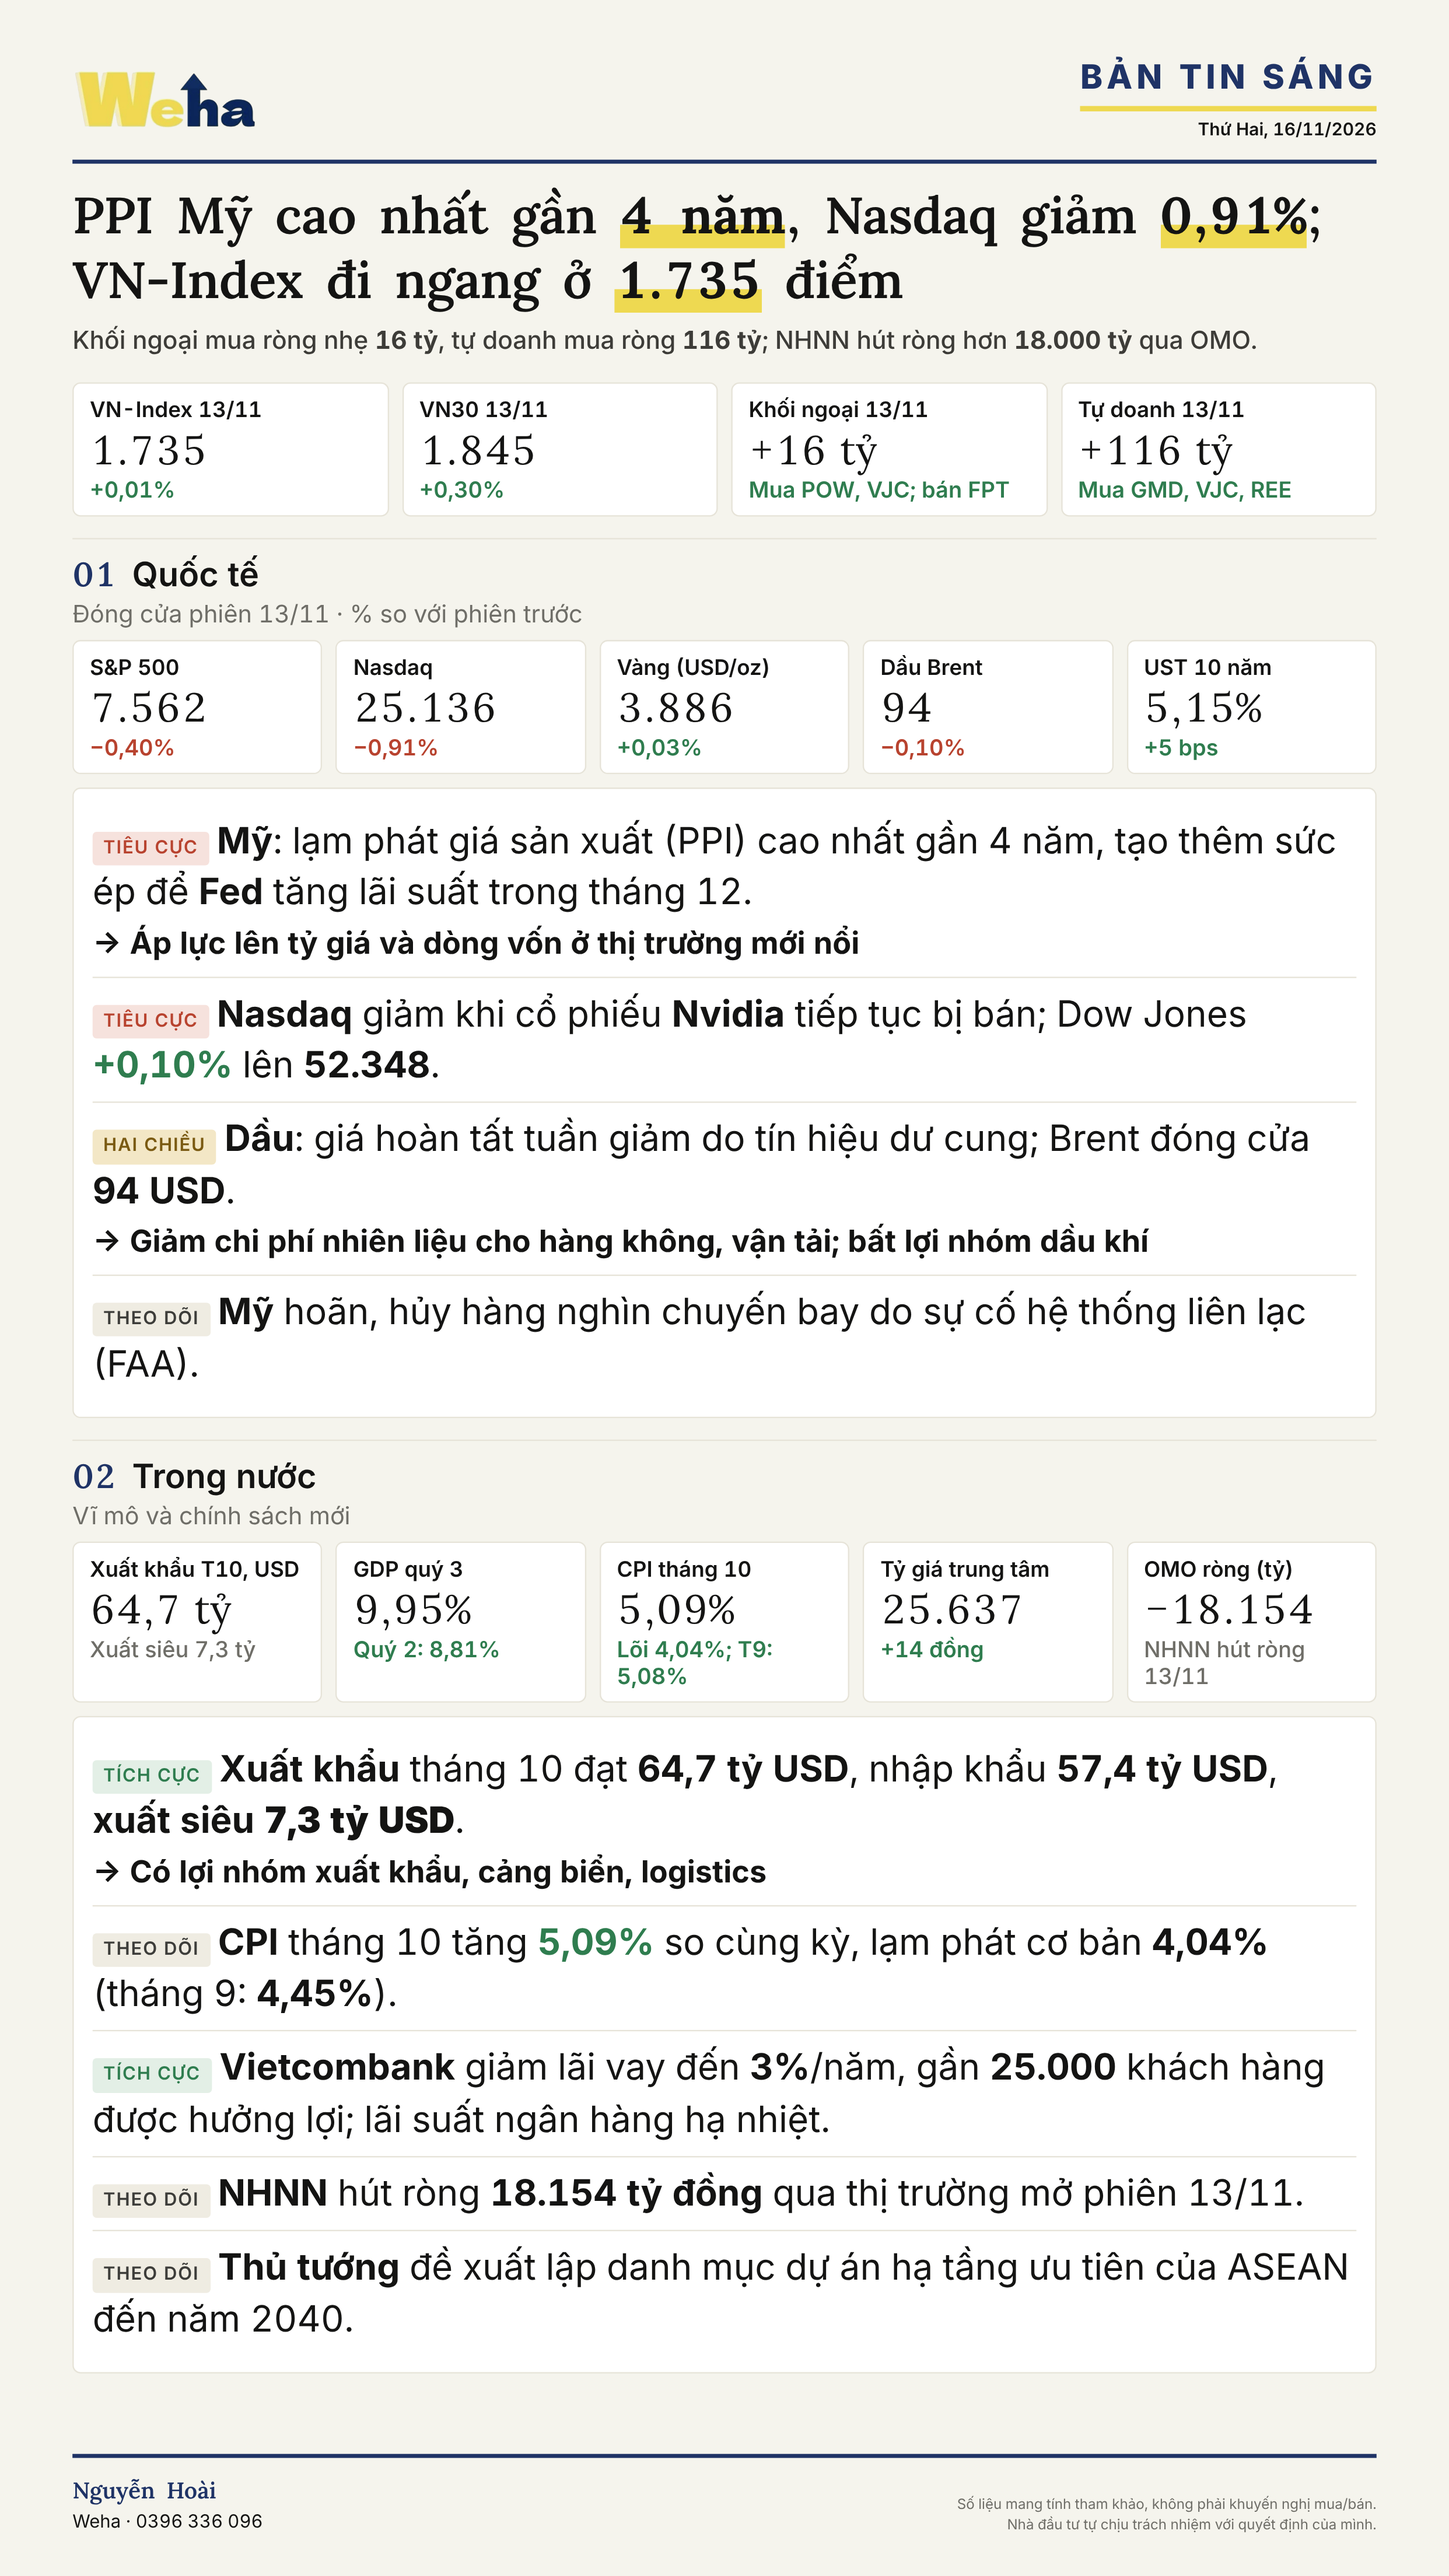
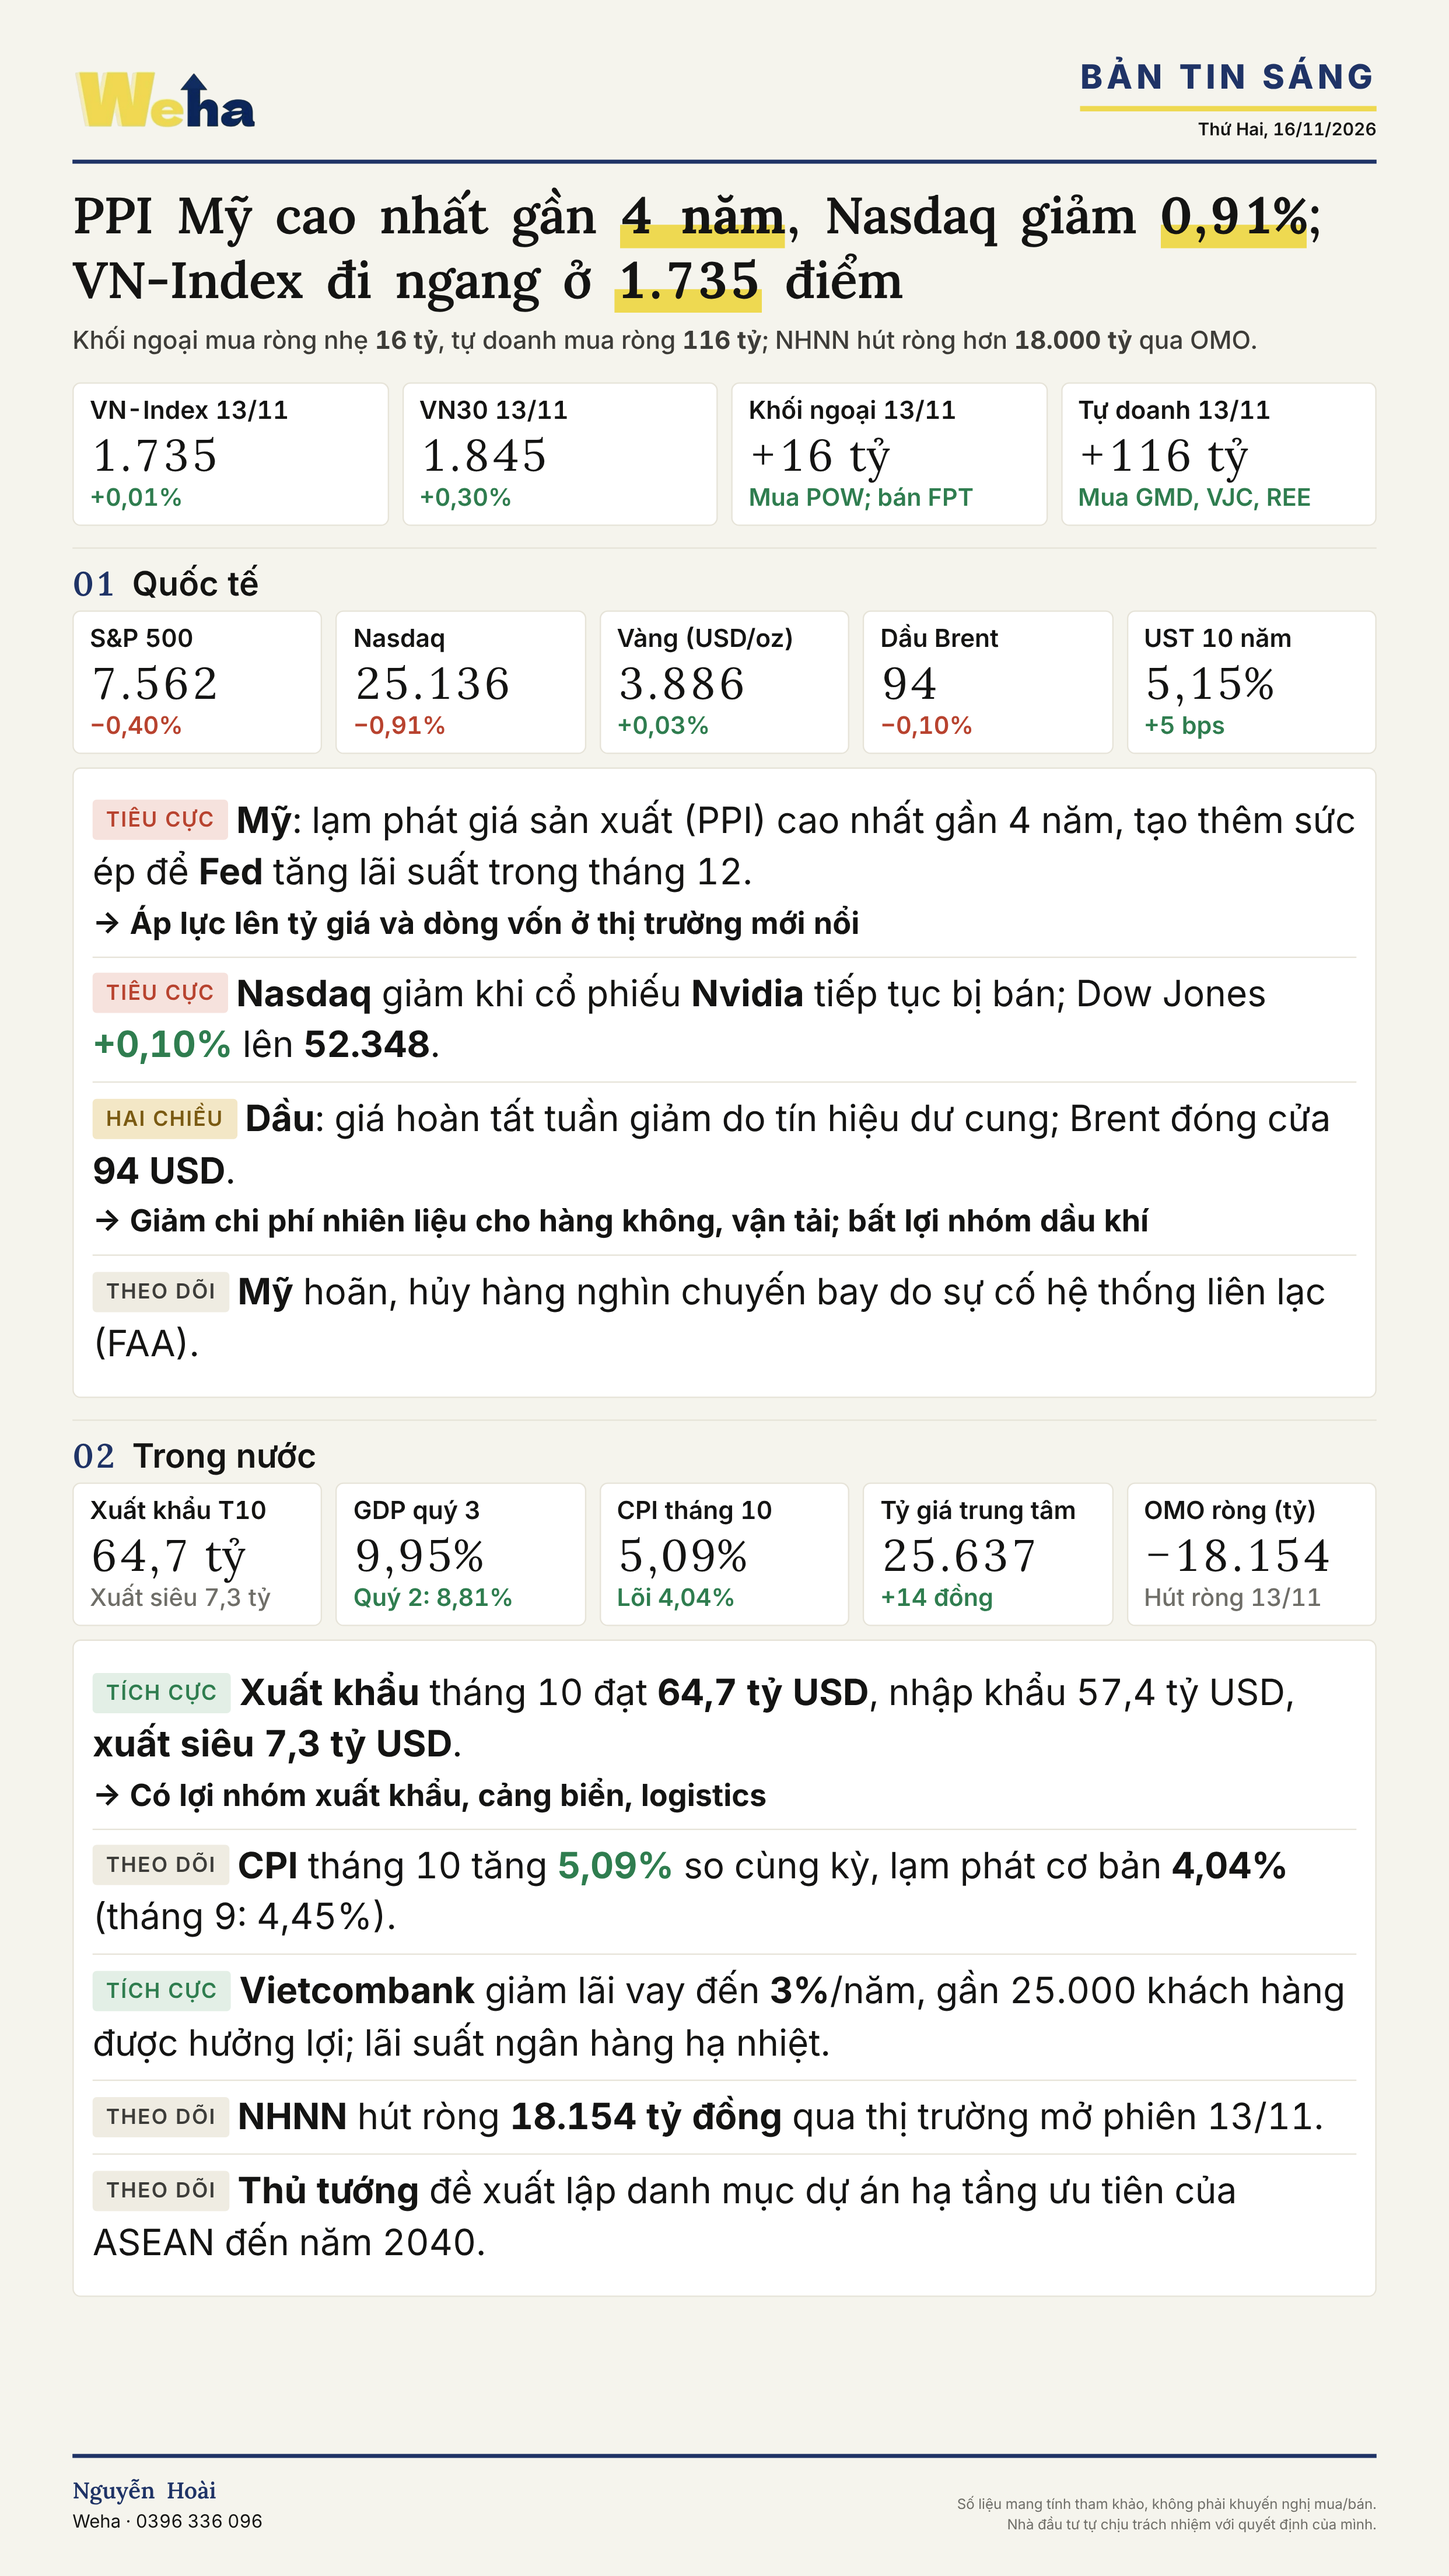
Bản tin sáng: ô số to hơn, nhãn tag thẳng hàng, bớt in đậm, bỏ phụ đề
Claude-Session: https://claude.ai/code/session_01PnGQZ9zkvgVJ88mD6d3FrE

diff --git a/scripts/weha_sang.py b/scripts/weha_sang.py
@@ -54,9 +54,9 @@ table{font-size:13px} td{padding:5px 4px} th{padding:4px}
 """
 CSS_M = """
 .page h1{font-size:38px;font-weight:600;line-height:1.25;letter-spacing:-.01em;word-spacing:-.04em;color:#141413} .page h1 b,.page h1 mark{font-weight:800;color:#141413;background:none;padding:0;box-shadow:inset 0 -.46em 0 #EED951} .page .lede{font-size:18.5px;color:#3D3C38;font-weight:500;white-space:nowrap}
-.page h2{font-size:25px;margin:16px 0 4px;padding-top:10px} .page .sub{font-size:16px;margin:0 0 8px}
-.page .lab{font-size:16px} .mini .v{font-size:30px} .page .chg{font-size:16.5px}
-.page .list p{font-size:27px;line-height:1.42;padding:8px 0;text-align:left;text-wrap:wrap;hyphens:none;overflow-wrap:normal} .page .tag{font-size:13.5px;padding:3px 8px}
+.page h2{font-size:25px;margin:16px 0 4px;padding-top:10px} .page .sub{display:none}
+.page .lab{font-size:18.5px} .mini .v{font-size:33px} .page .chg{font-size:18px}
+.page .list p{font-size:27px;line-height:1.42;padding:8px 0;text-align:left;text-wrap:wrap;hyphens:none;overflow-wrap:normal} .page .tag{font-size:15.5px;padding:4px 10px;margin-right:6px;vertical-align:middle;position:relative;top:-2px}
 .page .card h3{font-size:20px;margin-bottom:6px}
 .ev{font-size:18.5px} .ev th{font-size:15px} .ev td{padding:10px 6px} .ev td:first-child{white-space:nowrap;color:#6F6E68}
 .ev td:nth-child(2){font-weight:600;white-space:nowrap}
@@ -87,7 +87,7 @@ CSS_M = """
 .fl .r b{font-size:16px} .fl .bar{height:14px;border-radius:3px} .fl .bar.b{background:#2F7D4F} .fl .bar.s{background:#B8432F} .fl .v{text-align:right;font-size:15.5px;font-weight:600}
 .fl .h{font-size:16px;margin:12px 0 4px} .fl .r{grid-template-columns:64px 1fr 90px;margin:6px 0} .fl .r b{font-size:20px} .fl .bar{height:19px} .fl .v{font-size:19.5px}
 .wk .it{font-size:19.5px} .wk .dh{font-size:21px} .wk .dh span{font-size:16px} .wk .col{min-height:190px} .wk .none{font-size:16px}
-.page .sub{font-size:18px}
+.page .sub{display:none}
 """
 
 def esc(x): return H.escape(str(x), quote=False)
@@ -121,6 +121,11 @@ def chips(cs):
 import re as _re
 _NUM = _re.compile(r"(?<![\d/])[+−-]?(?:\d{1,3}(?:\.\d{3})+|\d+)(?:,\d+)?(?:\s?(?:%|tỷ USD|tỷ đồng|tỷ|triệu cổ phiếu|triệu|USD|bps))?")
 def boldnum(t, color=True):
+    used = [0]
+    def plain(x):
+        if color and used[0] >= 1: return x
+        used[0] += 1
+        return f"<b>{x}</b>"
     def sub(m, pre=""):
         x = m.group(0).replace(" ", "\u00a0")
         if not _re.search(r"[,.]\d|%|tỷ|triệu|USD|bps", x): return x
@@ -130,10 +135,10 @@ def boldnum(t, color=True):
         elif x.startswith(("−", "-")): cls = "neg"
         elif "%" in x or "bps" in x:
             ctx = pre[-18:].lower()
-            if _re.search(r"lãi (vay|suất)", ctx): return f"<b>{x}</b>"
+            if _re.search(r"lãi (vay|suất)", ctx): return plain(x)
             if _re.search(r"giảm|hạ |xuống|lỗ", ctx): cls = "neg"
             elif _re.search(r"tăng|lên ", ctx): cls = "pos"
-        return f'<b class="{cls}">{x}</b>' if cls else f"<b>{x}</b>"
+        return f'<b class="{cls}">{x}</b>' if cls else plain(x)
     parts = _re.split(r"(<[^>]+>)", shorten(t))
     out = ""
     for p in parts:
